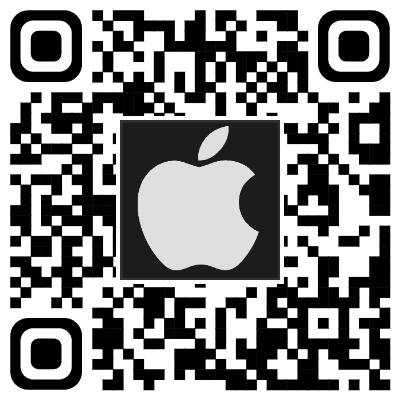
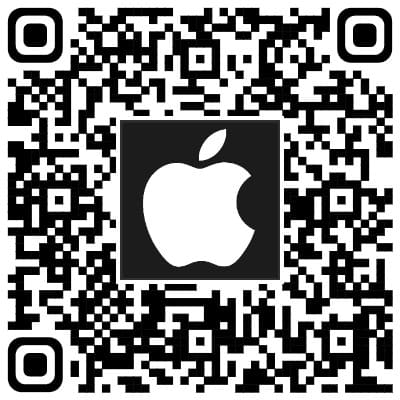
連結調整

diff --git a/index.html b/index.html
@@ -84,7 +84,7 @@
           <div class="banner-wrapper mb-3">
             <img src="./src/assets/img/img_banner_main_pic.jpg" alt="白晝日 BANNER" class="banner-img" />
           </div>
-          <p class="text-stroke mb-2">我們是最小單位的理念實現者333</p>
+          <p class="text-stroke mb-2">我們是最小單位的理念實現者</p>
           <!-- 影片播放器區塊：隨機播放 vid_main_01 / vid_main_02 -->
           <div class="video-player-wrapper mb-3">
             <div class="video-player">
@@ -127,7 +127,7 @@
               </div>
               <div class=" text-center qrcode-box">
                 <img src="./src/assets/img/img_apple_qrcode_download.jpg" alt="QR Store 下載" class="img-qrcode" />
-                <a href="https://apps.apple.com/app/id6755228891" class="download-app-link" target="_blank" rel="noopener noreferrer">
+                <a href="https://reurl.cc/YkYk6L" class="download-app-link" target="_blank" rel="noopener noreferrer">
                   <img src="./src/assets/img/img_app_store.png" alt="App Store 下載" class="img-fluid" />
                 </a>
               </div>
